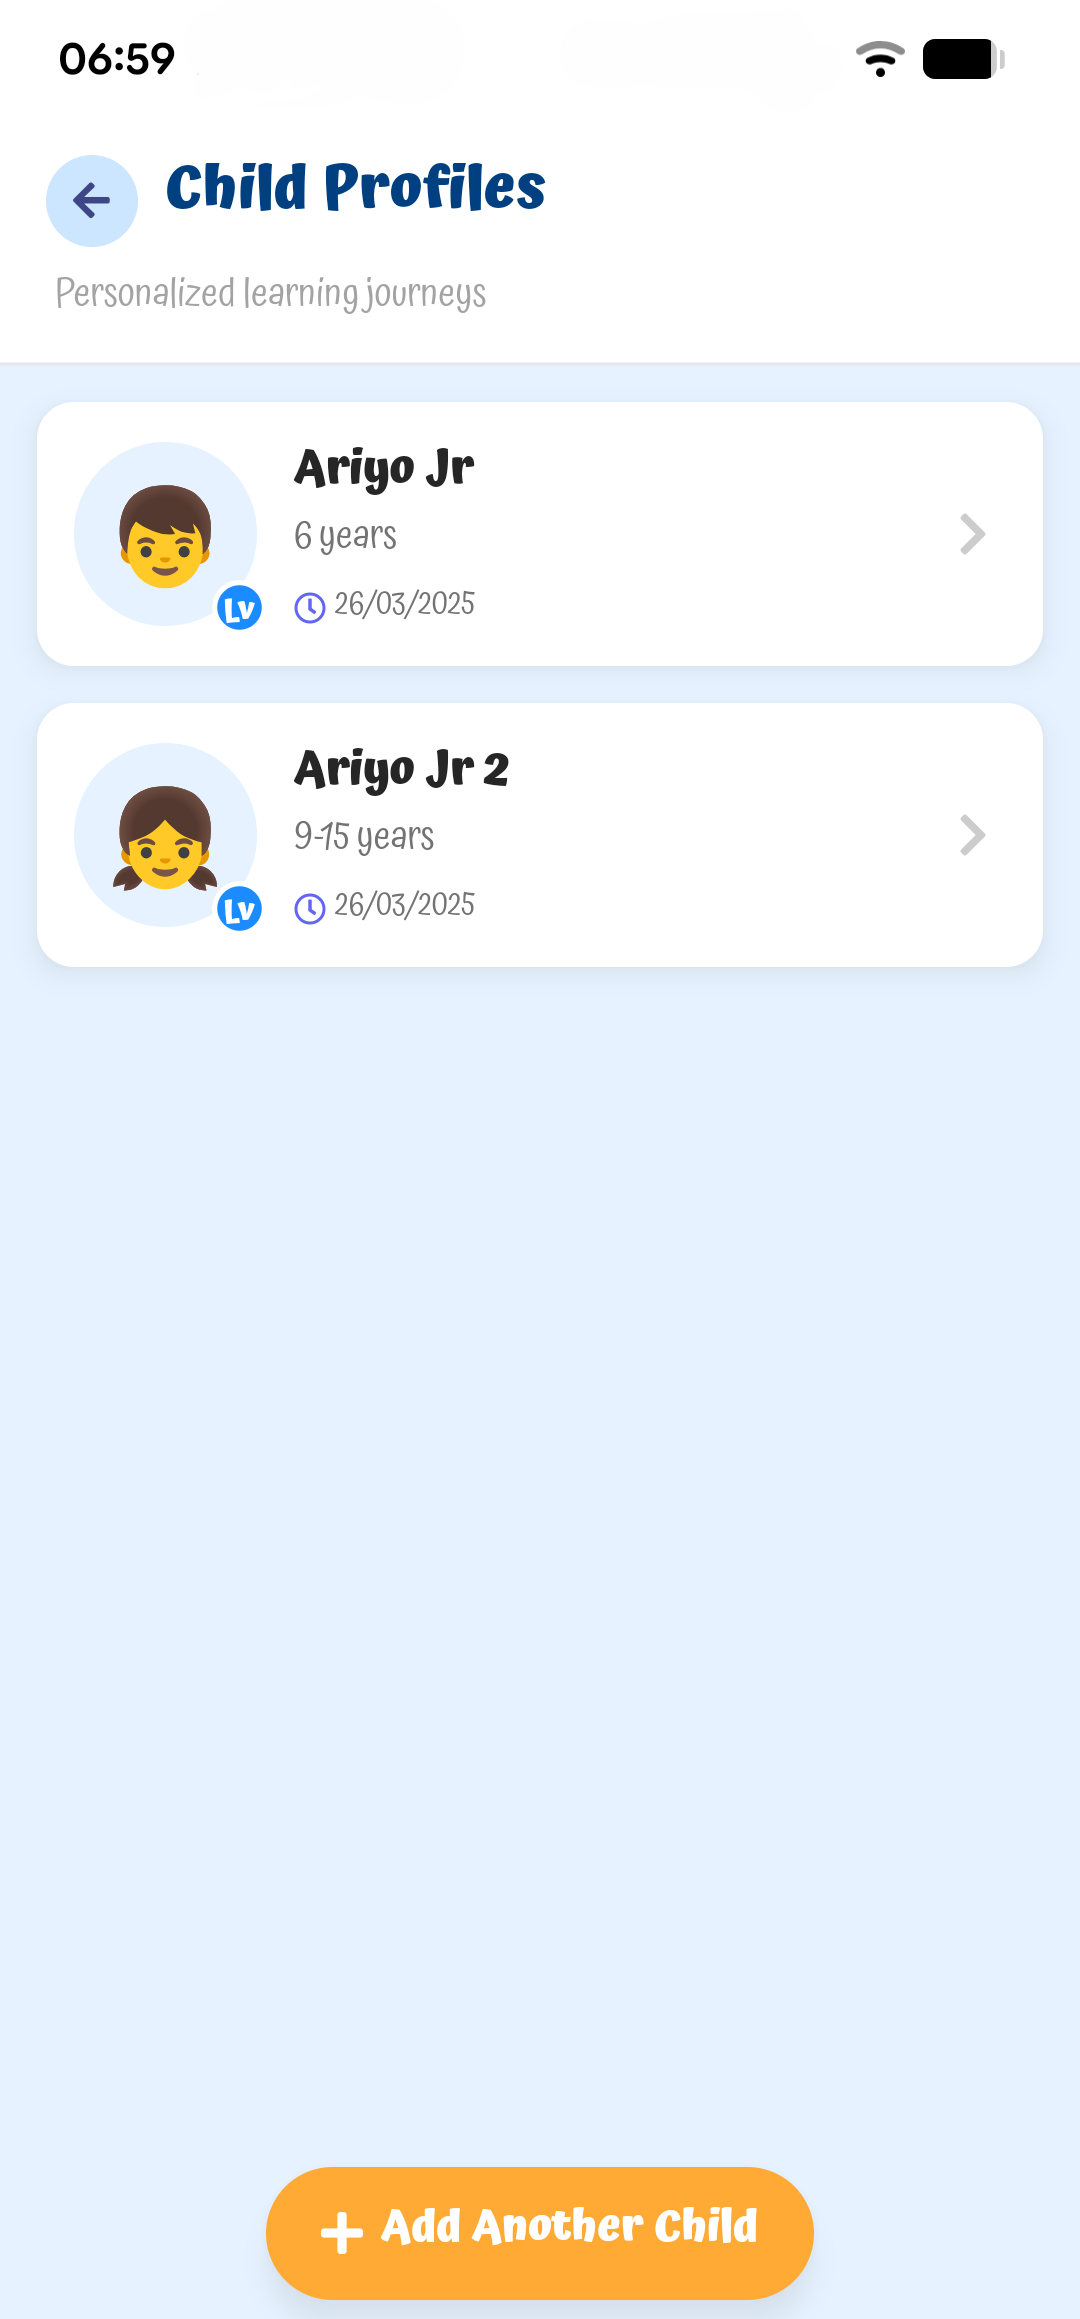
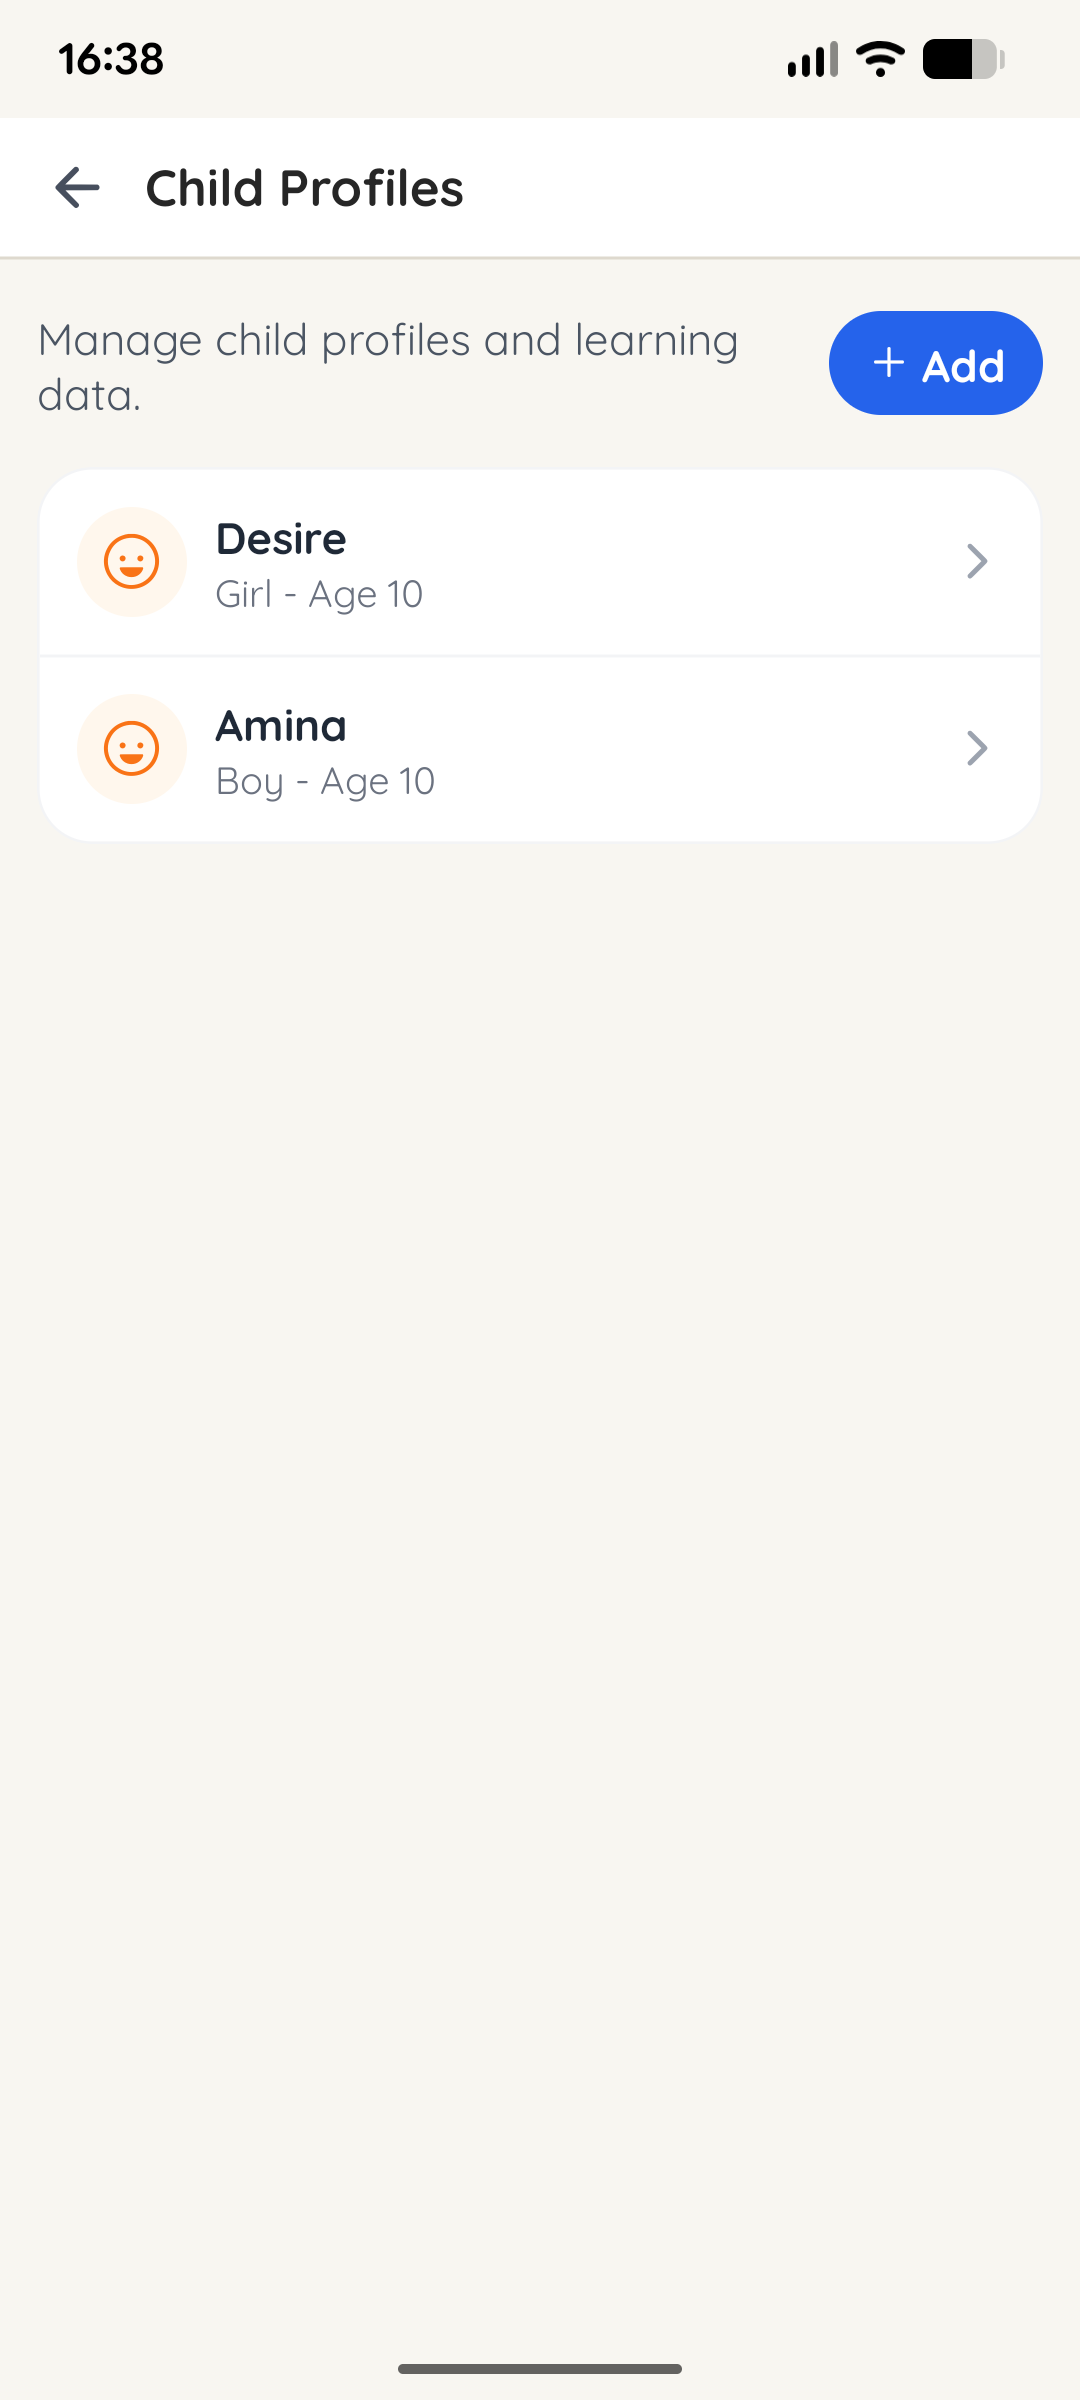
Images revamp

diff --git a/app/components/landing/FeaturesSection.tsx b/app/components/landing/FeaturesSection.tsx
@@ -3,33 +3,42 @@ import Link from "next/link";
 
 const playMoments = [
   {
-    src: "/app_screenshots/landscape_story_opened.png",
-    title: "Stories that sound familiar",
-    detail: "Listen, follow along, and discover words in context.",
+    src: "/app_screenshots/portrait_stories.png",
+    title: "A Luganda story to follow",
+    detail: "Listen, read, and meet familiar words in a simple story flow.",
   },
   {
-    src: "/app_screenshots/landscape_counting_game_opened.png",
-    title: "Numbers made playful",
-    detail: "Build early numeracy through bright, friendly challenges.",
+    src: "/app_screenshots/landscape_word_game.png",
+    title: "Build the word",
+    detail: "Turn a familiar phrase into a hands-on spelling challenge.",
   },
   {
-    src: "/app_screenshots/landscape_word_game_opened.png",
-    title: "Words worth remembering",
-    detail: "Match, repeat, and celebrate the little wins.",
+    src: "/app_screenshots/landscape_quiz_game.png",
+    title: "See it. Hear it. Recall it.",
+    detail: "Move between Luganda and English with audio support and gentle pacing.",
+  },
+  {
+    src: "/app_screenshots/landscape_coloring_studio.png",
+    title: "Create with the new word",
+    detail: "Bring ‘Oli otya?’ into a playful colouring activity children can save and share.",
   },
 ];
 
 const parentScreens = [
   {
-    src: "/app_screenshots/portrait_parent_dashbooard.png",
+    src: "/app_screenshots/portrait_parent_dashboard.png",
     label: "A calm weekly overview",
   },
   {
     src: "/app_screenshots/portrait_child_profiles.png",
-    label: "A path for every child",
+    label: "Profiles for every child",
   },
   {
-    src: "/app_screenshots/portrait_child_profile.png",
+    src: "/app_screenshots/portrait_child_activities.png",
+    label: "All activity in one place",
+  },
+  {
+    src: "/app_screenshots/portrait_individual_child_profile.png",
     label: "Progress without pressure",
   },
 ];
@@ -59,8 +68,8 @@ export function FeaturesSection() {
             <span className="feature-count">01 / PLAY</span>
             <h3>A small world of big discoveries</h3>
             <p>
-              Quizzes, stories, word games, and number adventures turn daily practice into a place
-              children want to return to.
+              The Luganda learning hub brings stories, word games, quizzes, and creative activities
+              into one clear place children can navigate with confidence.
             </p>
             <ul>
               <li>Clear, child-friendly navigation</li>
@@ -72,13 +81,13 @@ export function FeaturesSection() {
           <figure className="app-feature-screen">
             <div className="screen-topbar" aria-hidden="true"><i /><i /><i /><span>Baby Steps</span></div>
             <Image
-              src="/app_screenshots/landscape_quiz_game_intro.png"
-              alt="A quiz game introduction screen inside Baby Steps"
-              width={2280}
-              height={1012}
+              src="/app_screenshots/landscape_learning_hub.png"
+              alt="The Baby Steps Luganda learning hub with greeting and family learning paths"
+              width={2400}
+              height={1080}
               unoptimized
             />
-            <figcaption>Ready for a quick challenge?</figcaption>
+            <figcaption>One clear home for the Luganda learning journey</figcaption>
           </figure>
         </div>
 
@@ -89,8 +98,8 @@ export function FeaturesSection() {
                 <Image
                   src={moment.src}
                   alt={`Baby Steps app screen: ${moment.title}`}
-                  width={2280}
-                  height={1012}
+                  width={2400}
+                  height={1080}
                   unoptimized
                 />
               </div>
@@ -100,6 +109,27 @@ export function FeaturesSection() {
               </figcaption>
             </figure>
           ))}
+        </div>
+
+        <div className="parent-gate-feature">
+          <div className="parent-gate-copy">
+            <span className="feature-count">06 / SAFE BY DESIGN</span>
+            <h3>Child mode stays for children.</h3>
+            <p>
+              A quick grown-up puzzle creates a thoughtful pause before leaving the child
+              experience—keeping settings and family controls in the right hands.
+            </p>
+          </div>
+          <figure>
+            <Image
+              src="/app_screenshots/landscape_parent_gate.png"
+              alt="Baby Steps parent gate asking a simple grown-up maths question"
+              width={2400}
+              height={1080}
+              unoptimized
+            />
+            <figcaption>Parent access is intentionally separate from child mode.</figcaption>
+          </figure>
         </div>
 
         <div className="parent-view-panel">
@@ -123,7 +153,7 @@ export function FeaturesSection() {
                   src={screen.src}
                   alt={`Baby Steps parent screen: ${screen.label}`}
                   width={1080}
-                  height={2326}
+                  height={2400}
                   unoptimized
                 />
                 <figcaption>{screen.label}</figcaption>

diff --git a/app/globals.css b/app/globals.css
@@ -927,7 +927,7 @@ img {
 .play-moment-grid {
   display: grid;
   gap: 20px;
-  grid-template-columns: repeat(3, minmax(0, 1fr));
+  grid-template-columns: repeat(2, minmax(0, 1fr));
   margin-top: 22px;
 }
 
@@ -963,6 +963,50 @@ img {
 .play-moment-card strong { display: block; font-size: 0.9rem; }
 .play-moment-card figcaption p { color: rgba(255, 255, 255, 0.63); font-size: 0.7rem; line-height: 1.5; margin-top: 5px; }
 
+.parent-gate-feature {
+  align-items: center;
+  background: rgba(255, 255, 255, 0.08);
+  border: 1px solid rgba(255, 255, 255, 0.12);
+  border-radius: 32px;
+  display: grid;
+  gap: 38px;
+  grid-template-columns: 0.62fr 1.38fr;
+  margin-top: 72px;
+  overflow: hidden;
+  padding: 36px;
+}
+
+.parent-gate-copy h3 {
+  font-size: clamp(2rem, 3.4vw, 3.5rem);
+  letter-spacing: -0.05em;
+  line-height: 1;
+  margin: 15px 0 18px;
+}
+
+.parent-gate-copy p {
+  color: rgba(255, 255, 255, 0.7);
+  font-size: 0.86rem;
+  line-height: 1.7;
+}
+
+.parent-gate-feature figure {
+  background: #fff;
+  border: 8px solid #fff;
+  border-radius: 22px;
+  box-shadow: 0 22px 55px rgba(15, 20, 35, 0.24);
+  overflow: hidden;
+  transform: rotate(-1deg);
+}
+
+.parent-gate-feature figure img { display: block; height: auto; width: 100%; }
+
+.parent-gate-feature figcaption {
+  color: var(--ink);
+  font-size: 0.64rem;
+  font-weight: 700;
+  padding: 10px 12px 4px;
+}
+
 .parent-view-panel {
   align-items: center;
   background: var(--gold);
@@ -984,7 +1028,7 @@ img {
 .parent-phone-row {
   align-items: end;
   display: flex;
-  gap: 14px;
+  gap: 9px;
   height: 100%;
   justify-content: center;
 }
@@ -995,15 +1039,16 @@ img {
   border-bottom: 0;
   border-radius: 28px 28px 0 0;
   box-shadow: 0 18px 45px rgba(71, 79, 94, 0.2);
-  max-width: 190px;
+  max-width: 150px;
   overflow: hidden;
   padding-top: 15px;
   position: relative;
   transform: translateY(25px);
 }
 
-.parent-phone:nth-child(2) { max-width: 210px; transform: translateY(0); }
-.parent-phone:nth-child(3) { transform: translateY(42px); }
+.parent-phone:nth-child(2) { max-width: 165px; transform: translateY(0); }
+.parent-phone:nth-child(3) { max-width: 155px; transform: translateY(42px); }
+.parent-phone:nth-child(4) { max-width: 150px; transform: translateY(18px); }
 .parent-phone img { background: #fff; display: block; height: auto; width: 100%; }
 
 .parent-phone-speaker {
@@ -1915,6 +1960,7 @@ img {
   .app-feature-copy { padding-right: 28px; }
   .app-feature-screen { border-radius: 22px 0 0 0; }
   .play-moment-grid { grid-template-columns: 1fr; }
+  .parent-gate-feature { grid-template-columns: 1fr; }
   .parent-view-panel { grid-template-columns: 1fr; padding-bottom: 0; }
   .parent-view-copy { padding-bottom: 0; }
   .parent-phone-row { min-height: 470px; }
@@ -2023,10 +2069,23 @@ img {
   .app-feature-stage { border-radius: 24px; padding-left: 18px; }
   .app-feature-copy { padding-right: 18px; }
   .app-feature-copy h3 { font-size: 2rem; }
+  .parent-gate-feature { border-radius: 24px; gap: 24px; padding: 24px 18px; }
+  .parent-gate-feature figure { border-width: 4px; transform: none; }
   .parent-view-panel { border-radius: 24px; gap: 20px; margin-top: 54px; padding: 34px 18px 0; }
-  .parent-phone-row { gap: 6px; min-height: 370px; }
-  .parent-phone { border-width: 3px; border-bottom: 0; border-radius: 18px 18px 0 0; padding-top: 10px; }
-  .parent-phone:nth-child(2) { max-width: 170px; }
+  .parent-phone-row { gap: 6px; justify-content: flex-start; min-height: 370px; overflow-x: auto; padding: 0 2px; }
+  .parent-phone,
+  .parent-phone:nth-child(2),
+  .parent-phone:nth-child(3),
+  .parent-phone:nth-child(4) {
+    border-width: 3px;
+    border-bottom: 0;
+    border-radius: 18px 18px 0 0;
+    flex: 0 0 145px;
+    max-width: none;
+    padding-top: 10px;
+    transform: translateY(20px);
+  }
+  .parent-phone:nth-child(2) { transform: translateY(0); }
   .parent-phone figcaption { display: none; }
 
   .language-cloud { grid-template-columns: 1fr; transform: none; }

diff --git a/app/components/landing/ParentsPageContent.tsx b/app/components/landing/ParentsPageContent.tsx
@@ -38,7 +38,7 @@ export function ParentsPageContent() {
         <div className="section-inner parent-dashboard-layout">
           <div className="parent-dashboard-art">
             <div className="dashboard-phone">
-              <Image src="/app_screenshots/portrait_parent_dashbooard.png" alt="Baby Steps parent dashboard" width={1080} height={2326} unoptimized />
+              <Image src="/app_screenshots/portrait_parent_dashboard.png" alt="Baby Steps parent dashboard" width={1080} height={2400} unoptimized />
             </div>
             <div className="dashboard-note"><strong>3 little wins</strong><span>to celebrate this week</span></div>
           </div>

diff --git a/app/components/landing/SchoolsPageContent.tsx b/app/components/landing/SchoolsPageContent.tsx
@@ -70,10 +70,10 @@ export function SchoolsPageContent() {
           <div className="school-preview-screen">
             <span className="school-preview-stamp">Product direction · Not the final school experience</span>
             <Image
-              src="/app_screenshots/landscape_game_interface.png"
+              src="/app_screenshots/landscape_learning_hub.png"
               alt="A Baby Steps Luganda learning activity showing the visual direction for a future classroom experience"
-              width={2280}
-              height={1012}
+              width={2400}
+              height={1080}
               unoptimized
             />
           </div>
